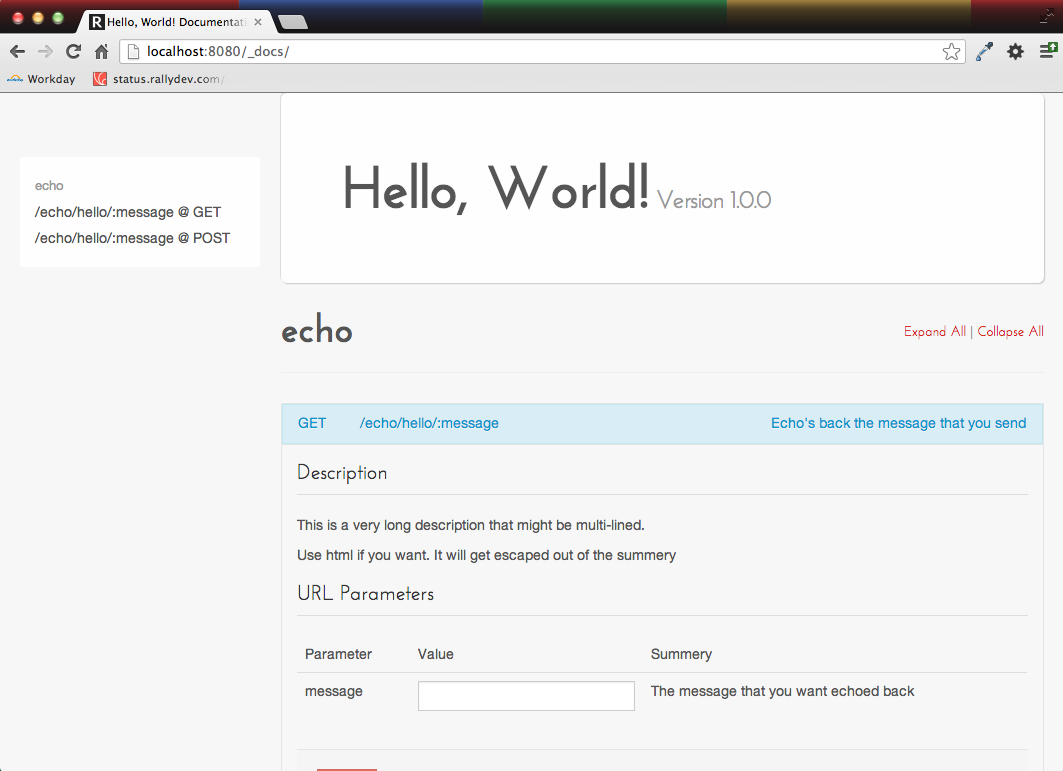
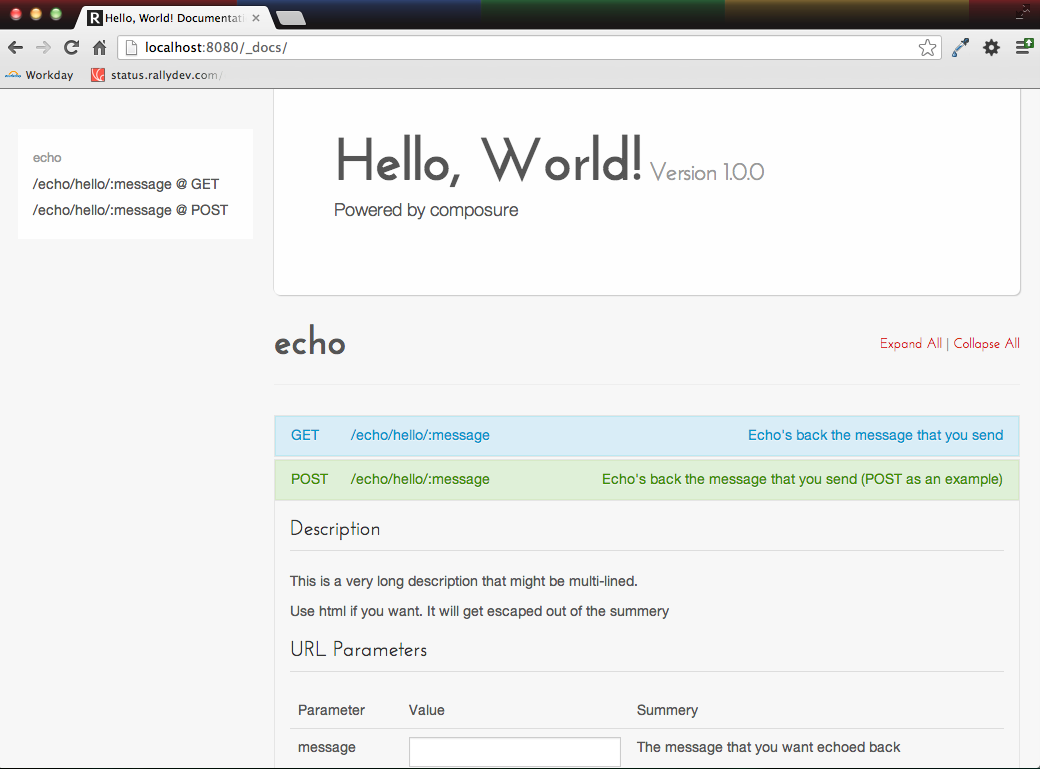
Next time I should check npm before naming something :)

diff --git a/lib/index.js b/lib/index.js
@@ -4,9 +4,9 @@ var semver = require("semver");
 var docgen = require("./docgen");
 var Service = require("./service").Service;
 
-var Interlude = function Interlude() {
-  if (!(this instanceof Interlude)) {
-    return new Interlude();
+var Composure = function Composure() {
+  if (!(this instanceof Composure)) {
+    return new Composure();
   }
 
   this._docRoot = "/doc";
@@ -19,17 +19,17 @@ var Interlude = function Interlude() {
   this.services = [];
 };
 
-Interlude.prototype.set = function set(key, value) {
+Composure.prototype.set = function set(key, value) {
   this["_" + key] = value;
 
   return this;
 };
 
-Interlude.prototype.get = function get(key, dValue) {
+Composure.prototype.get = function get(key, dValue) {
   return this["_" + key] || dValue;
 };
 
-Interlude.prototype.service = function service(name) {
+Composure.prototype.service = function service(name) {
   var s = new Service(name || "");
 
   s.version(this.get("version"));
@@ -38,11 +38,11 @@ Interlude.prototype.service = function service(name) {
   return s;
 };
 
-Interlude.prototype.name = function name(n) {
+Composure.prototype.name = function name(n) {
   return this.set("name", n);
 };
 
-Interlude.prototype.version = function version(ver) {
+Composure.prototype.version = function version(ver) {
   if (!semver.valid(ver)) {
     throw new Error("Invalid version: " + ver);
   }
@@ -50,7 +50,7 @@ Interlude.prototype.version = function version(ver) {
   return this.set("version", semver.clean(ver));
 };
 
-Interlude.prototype.listen = function listen(port, cb) {
+Composure.prototype.listen = function listen(port, cb) {
   var i, ii, j, jj;
   var service, path;
   var verb;
@@ -101,4 +101,4 @@ Interlude.prototype.listen = function listen(port, cb) {
   server.listen(port, cb);
 };
 
-module.exports = Interlude;
+module.exports = Composure;

diff --git a/examples/complex/index.js b/examples/complex/index.js
@@ -1,7 +1,7 @@
-var interlude = require("../../lib");
+var composure = require("../../lib");
 var services = require("./lib");
 
-var app = interlude().name("Complex Example API").version("1.1.0");
+var app = composure().name("Complex Example API").version("1.1.0");
 
 services.load(app);
 

diff --git a/examples/helloworld/index.js b/examples/helloworld/index.js
@@ -1,6 +1,6 @@
-var interlude = require("../../lib");
+var composure = require("../../lib");
 
-var app = interlude();
+var app = composure();
 
 var echoService = app.name("Hello, World!").service("echo").version("1.0.0");
 

diff --git a/README.md b/README.md
@@ -1,11 +1,11 @@
-interlude
+composure
 =========
 
 Inspired by [Swagger](https://github.com/wordnik/swagger-core/) for
-Scala, interlude is built on top of
+Scala, composure is built on top of
 [restify](https://github.com/mcavage/node-restify) and
 provides a clean api for defining RESTful web service apis.  At the same 
-time, interlude provides the ability to document your services along side
+time, composure provides the ability to document your services along side
 the endpoint definitions and hadlers, and creates a documentation
 website.
 
@@ -13,9 +13,9 @@ Example
 =======
 
 ```javascript
-var interlude = require("interlude");
+var composure = require("composure");
 
-var app = interlude();
+var app = composure();
 
 var echoService = app.name("Hello, World!").service("echo").version("1.0.0");
 
@@ -52,8 +52,8 @@ app.listen(8080, function () {
 Screenshot
 ----------
 
-![interlude
-screenshot](https://raw.github.com/Echo3ToEcho7/interlude/master/screenshot.png)
+![composure
+screenshot](https://raw.github.com/Echo3ToEcho7/composure/master/screenshot.png)
 
 Todos
 =====
